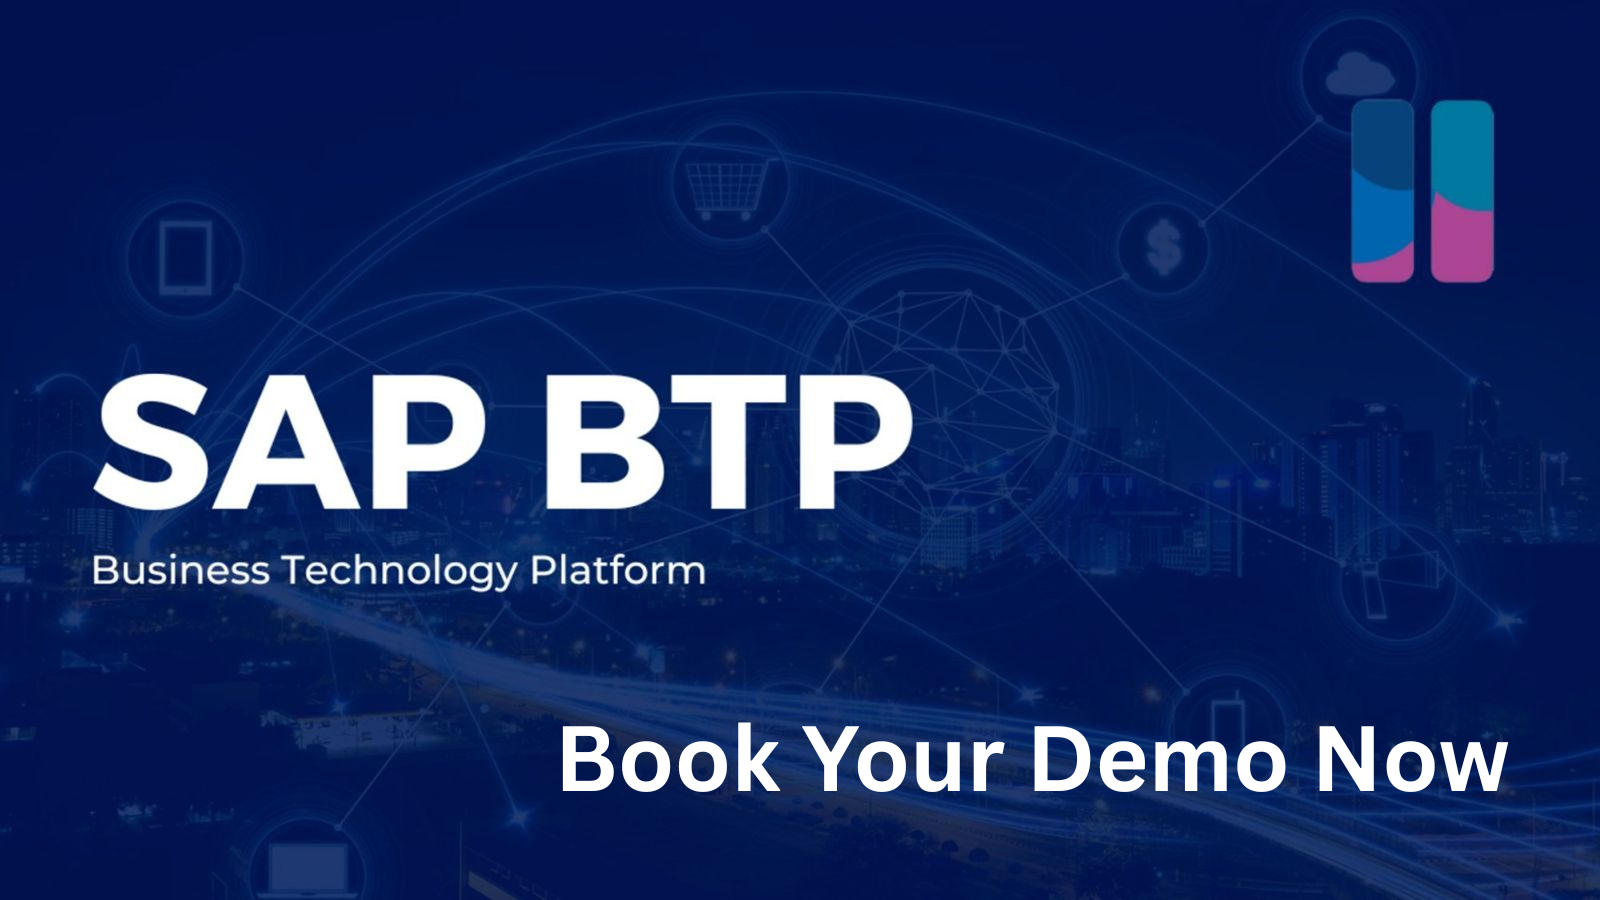
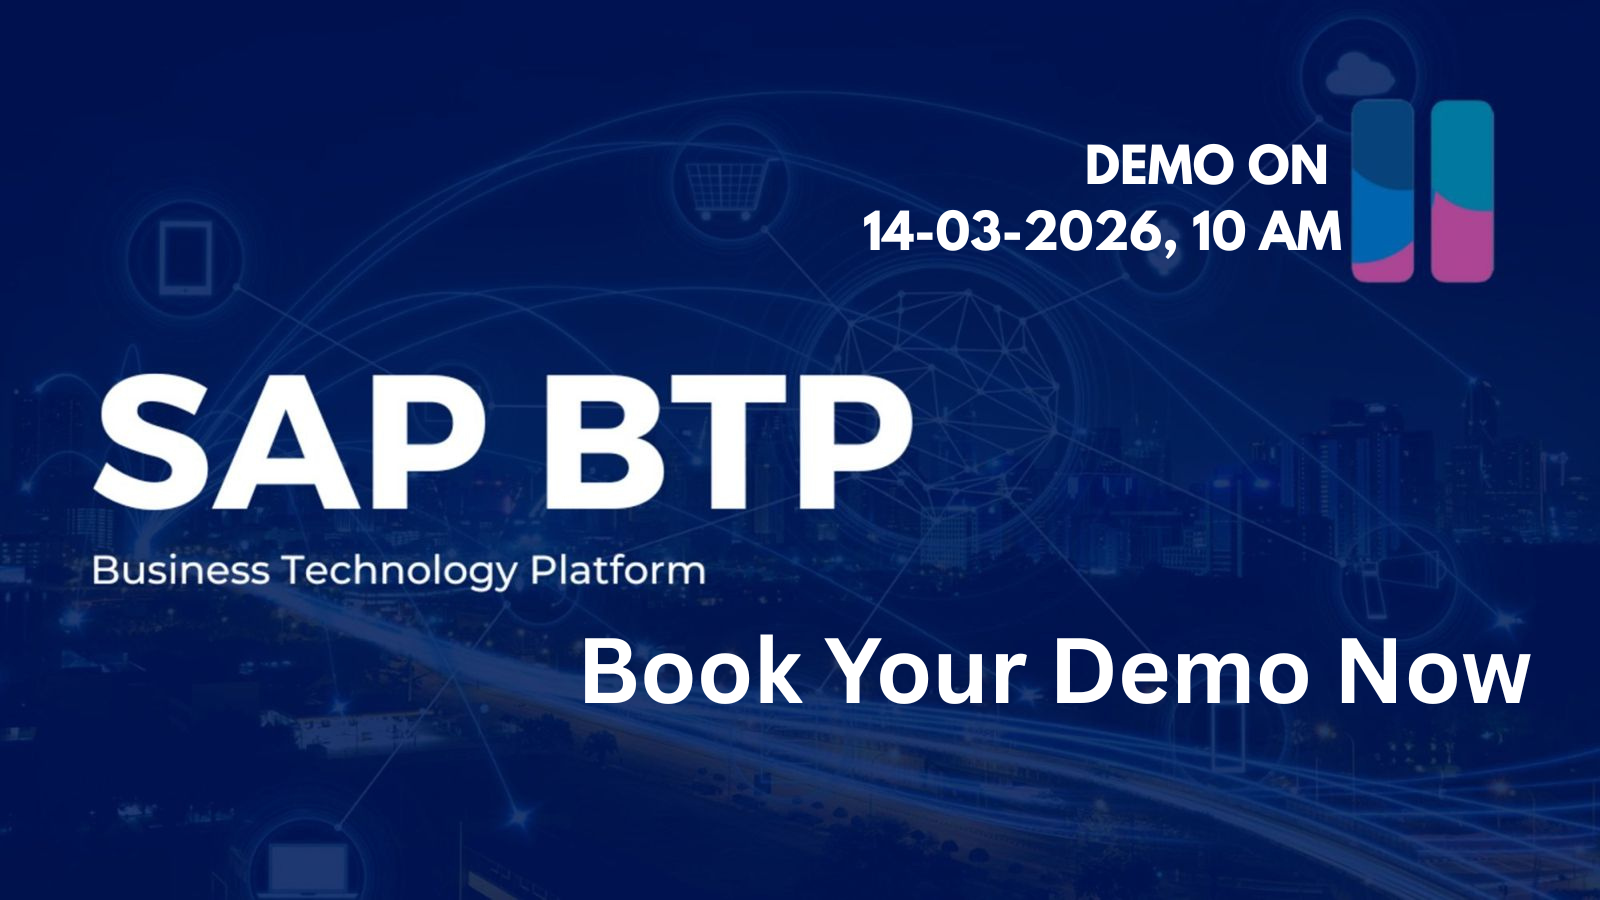
Upcoming Event

Changed region(s): [[0.3438, 0.6844, 0.9688, 0.9022], [0.5312, 0.1556, 0.8438, 0.28]]

diff --git a/src/pages/Home.tsx b/src/pages/Home.tsx
@@ -1,6 +1,6 @@
 import React, { useState, useEffect } from 'react';
 import { Button } from "@/components/ui/button";
-import { ArrowRight, CheckCircle, Smartphone, Clock, Star, ChevronLeft, ChevronRight } from "lucide-react";
+import { ArrowRight, CheckCircle, Smartphone, Clock, Star, ChevronLeft, ChevronRight, Calendar, Database, Sparkles } from "lucide-react";
 import { Link } from "react-router-dom";
 import { Helmet } from 'react-helmet-async';
 import { CourseCarousel } from "@/components/CourseCarousel";
@@ -73,6 +73,52 @@ const Home = () => {
         <meta property="og:type" content="website" />
         <meta property="og:image" content={`${siteUrl}/og-image.jpg`} />
       </Helmet>
+
+      {/* Upcoming Event Banner */}
+      <section className="bg-primary text-white py-3 border-b-2 border-secondary/50 relative overflow-hidden z-20 shadow-md">
+        <div className="w-full px-4 md:px-10 lg:px-20 mx-auto relative z-10 flex flex-col md:flex-row items-center justify-between gap-4">
+
+          <div className="flex flex-col md:flex-row items-center gap-3 md:gap-5 text-center md:text-left flex-1 w-full">
+            <div className="inline-flex items-center gap-1.5 bg-secondary text-white font-bold px-3 py-1 rounded text-xs uppercase tracking-wide whitespace-nowrap shadow-sm">
+              <Sparkles className="w-3.5 h-3.5" />
+              Free Demo
+            </div>
+
+            <h2 className="text-sm md:text-base lg:text-lg font-bold flex items-center whitespace-nowrap">
+              SAP BTP Masterclass
+            </h2>
+
+            <p className="text-white/80 text-xs md:text-sm hidden lg:block truncate max-w-sm xl:max-w-xl">
+              Explore SAP Cloud Development & Integration.
+            </p>
+
+            <div className="flex items-center justify-center gap-4 text-xs font-medium ml-auto mr-0 md:mr-4 bg-black/10 px-3 md:px-4 py-1.5 rounded-md border border-white/10 whitespace-nowrap">
+              <div className="flex items-center gap-1.5">
+                <Calendar className="w-3.5 h-3.5 text-secondary" />
+                <span>14th Mar 2026</span>
+              </div>
+              <div className="flex items-center gap-1.5 hidden sm:flex">
+                <Clock className="w-3.5 h-3.5 text-secondary" />
+                <span>10:00 AM IST</span>
+              </div>
+            </div>
+          </div>
+
+          <div className="w-full md:w-auto shrink-0 flex items-center justify-center">
+            <a
+              href="https://docs.google.com/forms/d/e/1FAIpQLSdXT8Mx2S5-wBwOrevQ_09OYcvV0oYFFHznNrYg_5RQQ9OBrw/viewform?usp=publish-editor"
+              target="_blank"
+              rel="noopener noreferrer"
+              className="w-full sm:w-auto block group"
+            >
+              <Button size="sm" className="w-full sm:w-auto bg-secondary hover:bg-secondary/90 text-white font-bold text-sm px-6 rounded shadow-sm hover:shadow-md transition-all duration-300 flex items-center justify-center gap-2 h-9">
+                BOOK A DEMO <ArrowRight className="w-4 h-4 group-hover:translate-x-1 transition-transform" />
+              </Button>
+            </a>
+          </div>
+
+        </div>
+      </section>
 
       {/* Hero Section with Carousel */}
       <section className="relative bg-white text-gray-800 py-2 lg:py-4 overflow-hidden">
